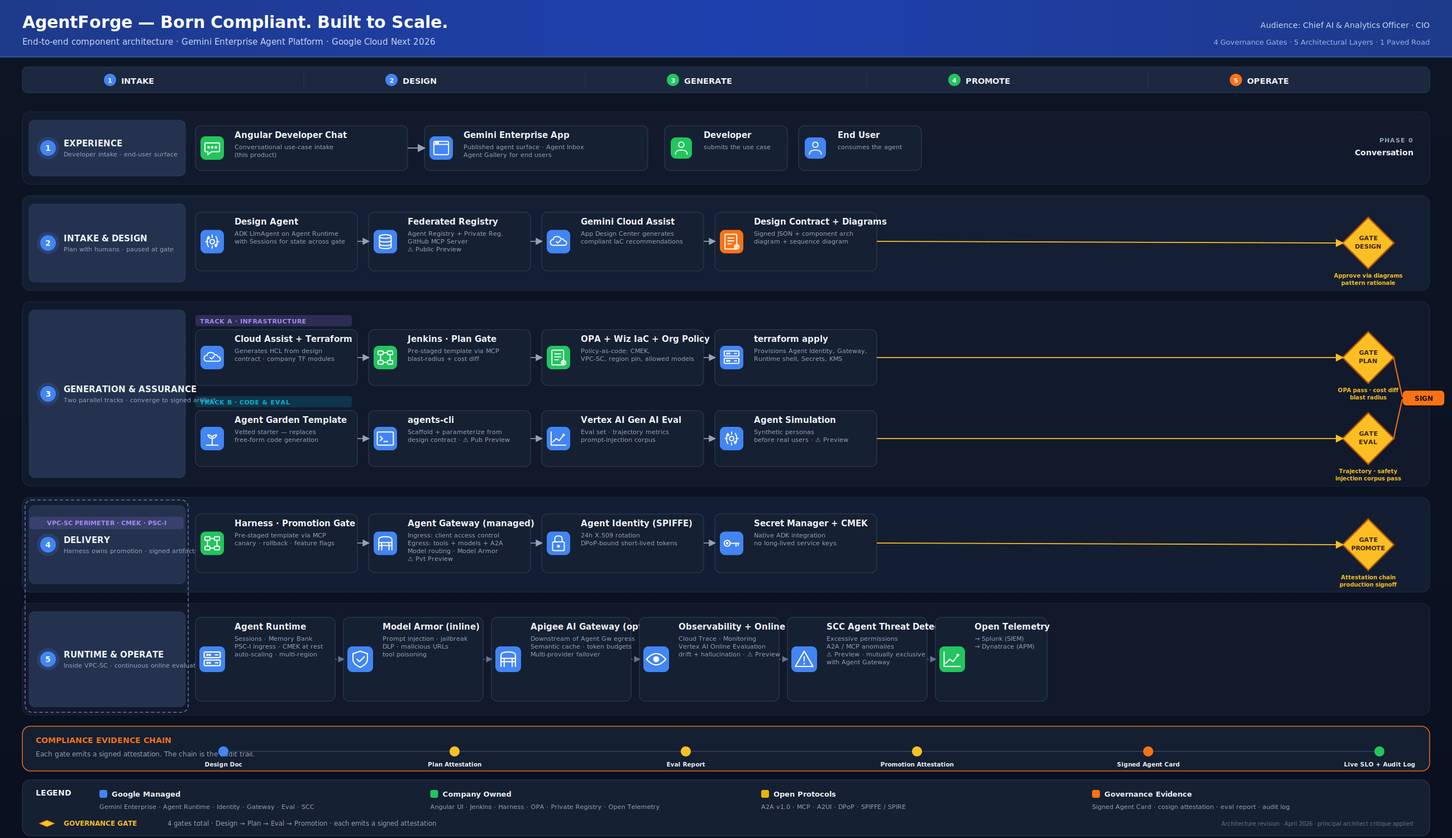
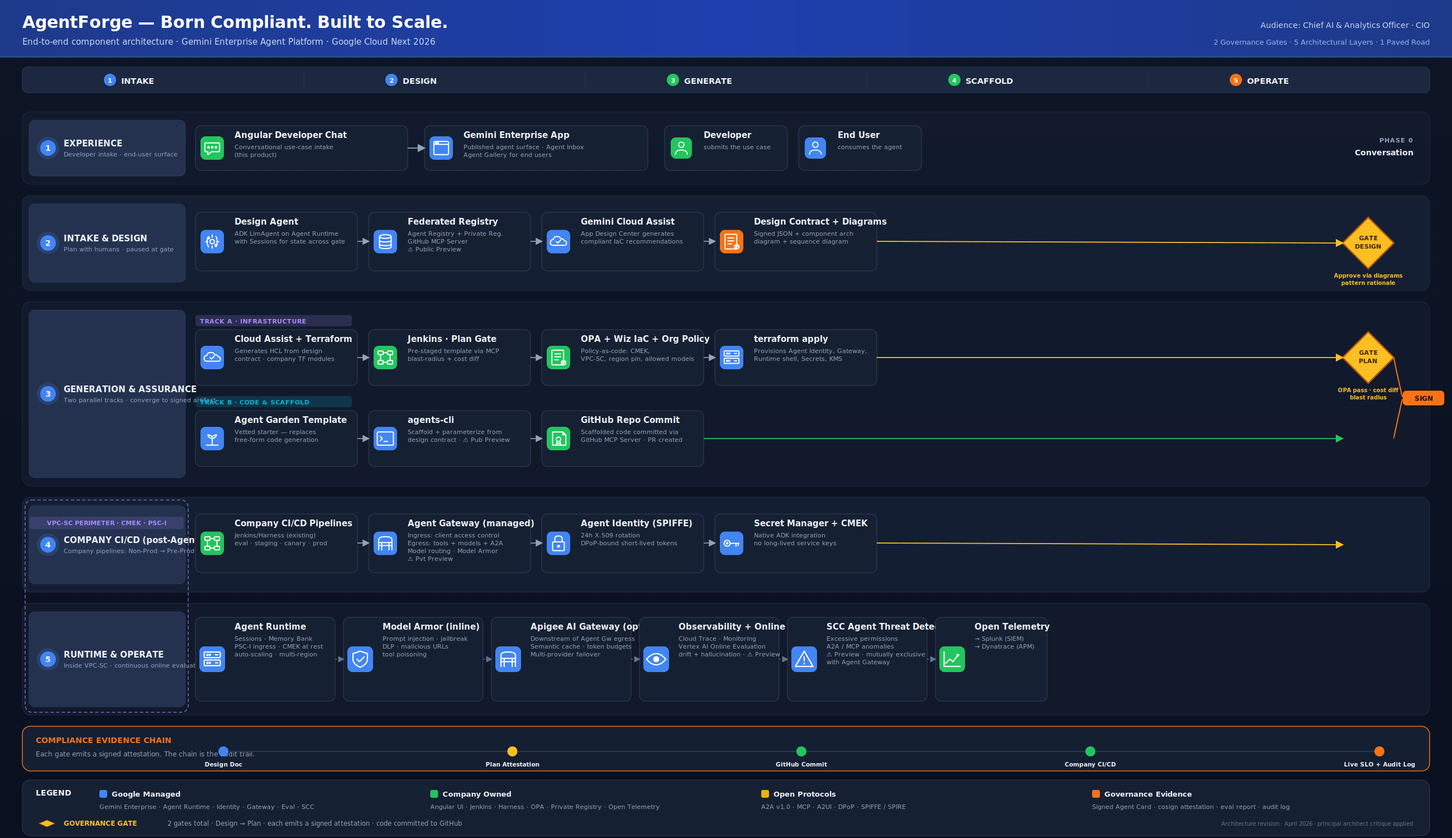
Refresh born-compliant platform architecture, tech stack, and sequence diagrams

diff --git a/born-compliant-platform-sequence-diagrams.md b/born-compliant-platform-sequence-diagrams.md
@@ -12,30 +12,29 @@ Every team in the enterprise that wants to build an AI agent today faces the sam
 
 ### The solution: AgentForge
 
-AgentForge is a **paved-road platform** that turns agent development from a bespoke construction project into a governed, repeatable, design-to-deploy workflow. A developer describes a use case in plain English through a chat interface. The platform's Design Agent selects the right ADK patterns, discovers reusable tools and MCP servers, generates the architecture diagrams, and presents a Design Contract for human approval. On approval, a deterministic pipeline scaffolds the agent code from a vetted template, provisions compliant infrastructure from signed Terraform modules, runs eval and security scans, and promotes the agent through four governance gates to production — where it runs with managed identity, inline Model Armor, continuous evaluation, and threat detection from day one.
+AgentForge is a **paved-road platform** that turns agent development from a bespoke construction project into a governed, repeatable, design-to-deploy workflow. A developer describes a use case in plain English through a chat interface. The platform's Design Agent selects the right ADK patterns, discovers reusable tools and MCP servers, generates the architecture diagrams, and presents a Design Contract for human approval. On approval, a deterministic pipeline scaffolds the agent code from a vetted template, provisions compliant infrastructure from signed Terraform modules, runs eval and security scans, and promotes the agent through two governance gates to production — where it runs with managed identity, inline Model Armor, continuous evaluation, and threat detection from day one.
 
 **The developer writes business logic. AgentForge writes everything else.**
 
-### The four governance gates — what makes "born compliant" real
+### The two governance gates — what makes "born compliant" real
 
-The phrase "born compliant" is a claim. The four-gate attestation chain is the **proof.** Every agent built through AgentForge passes through four mandatory governance checkpoints. Each gate produces a cryptographically signed attestation — a tamper-proof evidence artifact that proves the check occurred and what the result was. The attestations are chained: each one references the hash of the previous, so removing or altering any link in the chain is detectable and blocks the pipeline. This is the same principle as a certificate chain in TLS or a notarized chain of custody in legal proceedings — but applied to the agent lifecycle.
+The phrase "born compliant" is a claim. The two-gate attestation chain is the **proof.** Every agent built through AgentForge passes through two mandatory governance checkpoints. Each gate produces a cryptographically signed attestation — a tamper-proof evidence artifact that proves the check occurred and what the result was. The attestations are chained: each one references the hash of the previous, so removing or altering any link in the chain is detectable and blocks the pipeline. This is the same principle as a certificate chain in TLS or a notarized chain of custody in legal proceedings — but applied to the agent lifecycle.
 
 ```mermaid
 flowchart LR
     G1["🟧 DESIGN GATE<br/><br/>Human approves the<br/>architecture + patterns<br/>before any code is written"]
     G2["🟧 PLAN GATE<br/><br/>Policy-as-code validates<br/>infrastructure plan before<br/>any resource is provisioned"]
-    G3["🟧 EVAL GATE<br/><br/>Automated quality + safety<br/>thresholds are met before<br/>the agent is packaged"]
-    G4["🟧 PROMOTION GATE<br/><br/>Full attestation chain is<br/>verified before the agent<br/>reaches production"]
 
     G1 -->|"Design Attestation<br/>(signed contract)"| G2
-    G2 -->|"Plan Attestation<br/>(signed policy pass)"| G3
-    G3 -->|"Eval Attestation<br/>(signed quality report)"| G4
-    G4 -->|"Promotion Attestation<br/>(signed deploy auth)"| PROD["✅ PRODUCTION<br/><br/>Agent is live with<br/>continuous monitoring"]
+    G2 -->|"Plan Attestation<br/>(signed policy pass)"| SCAFFOLD["📦 SCAFFOLD + COMMIT<br/><br/>Code scaffolded from<br/>Design Contract, committed<br/>to company GitHub repo"]
+    SCAFFOLD -->|"Company CI/CD<br/>takes over"| CICD["🔄 COMPANY CI/CD<br/><br/>Non-Prod → Pre-Prod → Prod<br/>via existing Jenkins/Harness<br/>pipelines with company gates"]
 
     classDef gate fill:#78350f,stroke:#fbbf24,color:#fbbf24,stroke-width:2px;
-    classDef prod fill:#14532d,stroke:#22c55e,color:#22c55e,stroke-width:2px;
-    class G1,G2,G3,G4 gate;
-    class PROD prod;
+    classDef scaffold fill:#14532d,stroke:#22c55e,color:#22c55e,stroke-width:2px;
+    classDef cicd fill:#1e3a5f,stroke:#60a5fa,color:#60a5fa,stroke-width:2px;
+    class G1,G2 gate;
+    class SCAFFOLD scaffold;
+    class CICD cicd;
 ```
 
 **What each gate does and why it exists:**
@@ -44,17 +43,21 @@ flowchart LR
 |---|---|---|---|---|---|
 | **Design Gate** | After the Design Agent produces the architecture, before any code or infrastructure is generated | Is the pattern selection sound? Are the right tools and MCP servers selected? Does the architecture match the use case? Is the threat model addressed? | Developer (human) | Signed Design Contract + component diagram + sequence diagram | Teams ship agents with untested architectures; wrong pattern selection discovered in production |
 | **Plan Gate** | After Terraform generates the infrastructure plan, before any cloud resources are provisioned | Does the plan comply with OPA policies? Are CMEK, VPC-SC, region pinning enforced? Is the cost diff acceptable? Is the blast radius bounded? | Platform engineer (human) | Signed Plan Attestation referencing the Design Attestation hash | Non-compliant infrastructure reaches production; CMEK missing, VPC-SC perimeter open, cost overruns |
-| **Eval Gate** | After the agent code is scaffolded and tests are run, before the agent is packaged | Do quality metrics (trajectory accuracy, autorater scores) meet thresholds? Does the prompt-injection corpus pass? Do synthetic personas produce safe responses? | Automated (threshold-based) | Signed Eval Attestation referencing the Plan Attestation hash | Agents with hallucination problems, prompt-injection vulnerabilities, or quality regressions reach production |
-| **Promotion Gate** | After staging deploy and smoke tests pass, before production traffic is routed | Is the complete attestation chain (Design → Plan → Eval) intact and verified? Did staging smoke tests pass? Has the change record been opened? | Production approver (human) | Signed Promotion Attestation completing the chain | Agents without design review, untested infrastructure, or failing evals reach production because someone manually pushed a deploy |
 
-**Why the chain matters — not just the individual gates:**
+**What happens after the Plan Gate:**
 
-Individual gates are not new — every CI/CD pipeline has approval steps. What's new is the **chain.** Each attestation includes the cryptographic hash of the previous attestation, creating a tamper-proof sequence. If an attacker or a well-meaning engineer bypasses the Eval Gate and tries to promote directly, the Promotion Gate will detect that the Eval Attestation is missing from the chain and **block the deploy automatically.** No human has to catch the skip — the math catches it.
+After the Plan Gate passes, AgentForge provisions the infrastructure and scaffolds the agent code from the signed Design Contract. The scaffolded code — including the agent class hierarchy, MCP connections, A2A clients, skill directories, FunctionTool stubs, and callback placeholders — is committed to the **company's GitHub repository** via the GitHub MCP Server, organized per company best practices.
+
+**From this point, AgentForge's job is done.** The company's existing CI/CD pipelines — which already have their own quality gates, environment promotion (Non-Prod → Pre-Prod → Prod), eval frameworks, and approval workflows — take over. AgentForge does not impose its own eval or promotion gates because the company already has them.
+
+**Why the chain still matters — even with only two gates:**
+
+The two-gate chain is where the novel compliance value lives. The Design Attestation proves that a human reviewed the architecture before any code was generated. The Plan Attestation proves that the infrastructure was policy-checked before any resources were provisioned. Together, they guarantee that every scaffolded agent was *designed with evidence* and *provisioned with compliance* — before a single line of business logic is written. The company's CI/CD adds the remaining quality assurance (testing, eval, staging, canary, production promotion) using their established process.
 
 This means:
-- **For the CISO:** Every agent in production can be traced back to a signed design review, a signed infrastructure policy pass, a signed quality evaluation, and a signed production authorization. The audit trail is not a spreadsheet someone filled in — it's a cryptographic chain that cannot be forged.
-- **For the CAO/CIO:** The compliance posture of the 50th agent deployed through AgentForge is identical to the 1st — because the chain is enforced by the platform, not by human discipline. You don't need to worry about standards decaying as the team scales.
-- **For the auditor:** The chain answers the question *"prove this agent was reviewed, tested, and authorized"* with a single API call to Binary Authorization, not a week of evidence gathering across Confluence, JIRA, and email threads.
+- **For the CISO:** Every agent codebase in the company's GitHub repos can be traced back to a signed design review and a signed infrastructure policy pass. The compliance trail starts before code exists.
+- **For the CAO/CIO:** AgentForge handles the part that's hardest to standardize (architecture + infrastructure). The company's CI/CD handles the part they've already standardized (build + test + deploy).
+- **For the auditor:** The attestation chain answers *"prove this agent was designed and provisioned correctly"* — the company's CI/CD pipeline answers *"prove it was tested and deployed correctly."* Two complementary evidence chains.
 
 ### The ROI
 
@@ -69,7 +72,7 @@ This means:
 | **Observability setup** | Custom per agent | Auto-wired — Open Telemetry, Cloud Trace, Splunk, Dynatrace | Zero instrumentation code per agent |
 | **Rollback** | Redeploy previous version | Agent Gateway weight shift (seconds) | Sub-minute rollback |
 | **Platform team size** | N/A (each team self-serves poorly) | ~5 engineers maintain the platform for the entire enterprise | Centralized investment, distributed benefit |
-| **Cost of compliance failure** | Unbounded (each agent is its own risk) | Bounded — no agent escapes the four governance gates | Portfolio-level compliance, not agent-level |
+| **Cost of compliance failure** | Unbounded (each agent is its own risk) | Bounded — no agent escapes the two governance gates | Portfolio-level compliance, not agent-level |
 
 **The one-line pitch for the board:** AgentForge lets the enterprise ship 10x more agents in half the time with a compliance posture that improves with every deployment, because compliance is structural — not a checkbox.
 
@@ -94,7 +97,7 @@ Here is the gap:
 | Architecture diagrams for human review | ❌ Not provided | ✅ Generated from the pattern composition, signed as evidence |
 | Compliance-hardened infrastructure | ❌ Templates use Google's default Terraform | ✅ Company TF modules with CMEK, VPC-SC, billing labels, region pinning baked in |
 | CI/CD pipelines aligned to company standards | ❌ Cloud Build configs (Google's standard) | ✅ Pre-staged Jenkins + Harness templates discovered via MCP |
-| Four-gate attestation chain | ❌ Not provided | ✅ Design → Plan → Eval → Promotion, cryptographically chained |
+| Four-gate attestation chain | ❌ Not provided | ✅ Design → Plan, cryptographically chained |
 | Skill discovery by developer intent | ❌ Developer manually selects skills | ✅ Semantic search matches use-case intent to skills, assigns them to agent nodes |
 | Provenance verification at build time | ❌ Not provided | ✅ Every skill, module, and template verified against signed Design Contract |
 
@@ -234,7 +237,7 @@ Harness owns environment promotion. Nothing reaches production unless the full a
 
 | Component | Category | Description |
 |---|---|---|
-| Harness *(via MCP Server)* | Company | Continuous delivery platform running a **pre-staged company pipeline template** (`agent-deploy-canary-v4`). The template contains the Promotion Gate logic, canary watch, rollback triggers, and environment progression. The Design Agent discovers the template and configures it with parameters from the Design Contract via the Harness MCP Server. No Harness YAML is generated. |
+| Harness *(via MCP Server)* | Company | Continuous delivery platform. In AgentForge, the Harness MCP Server is used at **design time** (Layer 2) to discover pipeline templates and read their parameter schemas. The actual deployment pipeline execution (eval, staging, canary, production promotion) happens **outside AgentForge scope** via the company's existing Harness pipelines in Layer 4. |
 | Harness Feature Flags | Company | Toggle prompt packs, tool allowlists, and Model Armor templates in production without redeploying the agent. |
 | Agent Gateway *(Private Preview)* | GCP | Google-managed gateway operating in two modes. **Ingress (Client-to-Agent):** controls which clients can access agents. **Egress (Agent-to-Anywhere):** secures and governs ALL outbound agent traffic — to tools/MCP servers, to models (Gemini, Model Garden, third-party), to other agents (A2A), and to external APIs. Enforces IAM policies, Model Armor, and identity-aware routing at the egress point. **Note:** SCC Agent Engine Threat Detection is not available when Agent Gateway is enabled — they are mutually exclusive in the current preview. |
 | Agent Identity (SPIFFE) *(GA)* | GCP | Issues SPIFFE-based X.509 certificates with 24-hour rotation and DPoP-bound tokens. Each environment (staging, prod) gets a separate identity — no identity promotion. |
@@ -280,7 +283,7 @@ The agent runs inside a VPC-SC perimeter with continuous evaluation, threat dete
 | Access Context Manager *(GA)* | GCP | Context-aware access policies. Defines the VPC-SC perimeter rules and the conditions under which agents can access sensitive resources. |
 | Cloud Audit Logs *(GA)* | GCP | Admin activity, data access, and system event logs. The only component that appears in every layer — it is the audit backbone. |
 | Cloud Billing + Labels *(GA)* | GCP | Per-agent cost attribution via billing labels. Each agent deployed by the platform inherits labels from its Design Contract (agent class, team, cost center). |
-| Compliance Evidence | Company | The signed attestation chain — Design Doc → Plan Attestation → Eval Report → Promotion Attestation → Signed Agent Card → Live SLO + Audit Log. This chain is what "born compliant" means to an auditor. |
+| Compliance Evidence | Company | The signed attestation chain — Design Doc → Plan Attestation → GitHub Commit → Company CI/CD → Live SLO + Audit Log. AgentForge produces the first three links; the company's CI/CD produces the rest. This chain is what "born compliant" means to an auditor. |
 | SPIFFE / SPIRE *(GA)* | Protocol | The workload identity standard underpinning Agent Identity. SPIFFE IDs are the only principal type for agent IAM grants — no service account keys. |
 
 ---
@@ -690,7 +693,7 @@ sequenceDiagram
 | **LLM involved?** | Yes — reasoning, pattern selection, tool discovery, diagram generation | No — deterministic parameterization from signed contract |
 | **Inputs** | Developer's use-case prompt + pattern catalog + registries + GitHub MCP | Signed Design Contract JSON (all choices already made) |
 | **Outputs** | Signed Design Contract + component diagram + sequence diagram | Scaffolded ADK agent package + eval results |
-| **Who approves the output?** | Developer at Design Gate (reviews architecture via diagrams) | Automated eval thresholds at Eval Gate (no human reviews code) |
+| **Who approves the output?** | Developer at Design Gate (reviews architecture via diagrams) | No approval needed — scaffold is committed to GitHub; company CI/CD handles quality gates |
 | **Why this boundary exists** | If Design Agent invoked agents-cli directly, the human approval gate would come *after* code generation — forcing the developer to review generated code instead of reviewing a design. That's a worse developer experience and a weaker compliance posture. |
 
 **Design Contract JSON example** (the artifact handed from Layer 2 to Layer 3):
@@ -917,7 +920,6 @@ sequenceDiagram
 
     box rgba(34,197,94,0.15) Company-Owned
     participant JNK as Jenkins<br/>(pre-staged template)
-    participant ESC as Eval Set + Corpus
     end
 
     box rgba(66,133,244,0.15) GCP Managed
@@ -927,9 +929,6 @@ sequenceDiagram
     participant CLI as agents-cli
     participant ADK as ADK Framework
     participant GAR as Agent Garden Templates
-    participant EVAL as Vertex AI Gen AI Eval
-    participant SIM as Agent Simulation
-    participant ARG as Artifact Registry
     participant BAUTH as Binary Authorization
     participant CAL as Cloud Audit Logs
     end
@@ -943,6 +942,7 @@ sequenceDiagram
     participant SIG as Cosign / Sigstore
     participant GSR as Google Skills Repo<br/>(github.com/google/skills)
     participant CSR as Company Skills Repo<br/>(github.com/company/skills)
+    participant GH as GitHub MCP Server<br/>(company repo)
     end
 
     Note over JNK: ◀ from Layer 2: contract_uri arrives via webhook
@@ -993,15 +993,11 @@ sequenceDiagram
         CLI->>CLI: wire ADK SkillToolset with<br/>load_skill_resource tool for each<br/>bundled skill (enables L3 on-demand<br/>loading at runtime)
         CLI->>ADK: build agent package<br/>(all params from signed contract —<br/>zero LLM choices)
         ADK-->>CLI: built agent package
-        CLI->>EVAL: agents-cli eval run<br/>--eval-set {eval_set_id}<br/>--corpus {injection_corpus_id}
-        ESC-->>EVAL: golden + injection corpus
-        EVAL-->>CLI: trajectory metrics + autorater scores
-        CLI->>SIM: synthetic persona test
-        SIM-->>CLI: simulation report
-        Note over CLI: 🟧 EVAL GATE — thresholds checked
-        CLI->>SIG: sign Eval Report
-        SIG-->>CLI: eval_attestation
-        CLI->>CAL: EVAL_GATE_PASSED
+
+        Note over CLI,GH: COMMIT TO COMPANY GITHUB REPO
+
+        CLI->>GH: commit scaffolded code to<br/>company GitHub repo via<br/>GitHub MCP Server<br/>(organized per company standards:<br/>repo structure, branch naming,<br/>PR with Design Contract link)
+        GH-->>CLI: commit SHA + PR URL
     end
 
     Note over JNK: CONVERGENCE — both tracks complete
@@ -1017,24 +1013,22 @@ sequenceDiagram
     JNK->>SIG: sign final bundle attestation
     SIG-->>JNK: final_attestation
 
-    JNK->>ARG: push signed bundle
-    ARG-->>JNK: bundle_uri
-    JNK->>BAUTH: register attestation chain<br/>(Design + Plan + Eval + Final)
+    JNK->>BAUTH: register attestation chain<br/>(Design + Plan)
     BAUTH-->>JNK: chain locked
 
-    JNK->>CAL: SIGN_PASSED — full chain recorded
-    JNK->>JNK: trigger Harness webhook<br/>{bundle_uri, infra_contract,<br/>attestation_chain_id}
+    JNK->>CAL: SCAFFOLD_COMPLETE —<br/>code committed to GitHub,<br/>infra provisioned,<br/>attestation chain recorded
 
-    Note right of JNK: ▶ Handoff to Layer 4:<br/>bundle + infra contract + chain
+    Note right of JNK: ▶ Handoff to Company CI/CD:<br/>scaffolded code in GitHub repo<br/>+ provisioned infra + attestation chain<br/><br/>Company's existing Jenkins/Harness<br/>pipelines handle eval, staging,<br/>canary, and production promotion<br/>through Non-Prod → Pre-Prod → Prod
 ```
 
 **Engineering notes:**
 
-- The two tracks share the Design Contract but produce independent artifacts. Convergence requires both to have signed attestations. If one fails, the other is discarded — there is no partial promotion.
-- Track B builds the agent code against **stub references** to the infra contract; at convergence, stubs are replaced with the real IDs Track A emitted. The bundle is *re-signed* after substitution.
+- The two tracks share the Design Contract but produce independent artifacts. If one fails, the other is discarded.
+- Track B builds the agent code against **stub references** to the infra contract; at convergence, stubs are replaced with the real IDs Track A emitted.
 - **`agents-cli` is a deterministic consumer of the Design Contract — see the field-by-field consumption table in the Layer 2 engineering notes.** It reads `garden_template_id` to fetch the scaffold, `adk_agent_tree` to generate the class hierarchy, `tool_bindings[]` to wire MCP servers and function tools per agent node, `mcp_server_configs[]` to generate connection setup, `skill_references[]` to pin versions with signature hashes, and `infra_modules[]` to generate the Terraform references Track A consumes. If any field is missing or malformed, agents-cli fails with a schema validation error — it never guesses.
-- **There is no LLM in Track B.** The LLM did its work in Layer 2. From Layer 3 onward, the pipeline is deterministic. This is the fundamental architectural boundary: design is LLM-assisted (Layer 2), generation is LLM-free (Layer 3).
-- Binary Authorization stores the *chain*, not individual attestations. Layer 4 verifies the entire chain in one call.
+- **There is no LLM in Track B.** The LLM did its work in Layer 2. From Layer 3 onward, the pipeline is deterministic.
+- **After convergence, the scaffolded code is committed to the company's GitHub repo via the GitHub MCP Server.** The commit includes the agent package, skill directories, Terraform references, callback stubs, and a reference to the signed Design Contract. The company's existing CI/CD pipelines — which already have their own eval frameworks, quality gates, staging environments, canary deployment, and production promotion workflows — take over from this point. AgentForge does not impose eval or promotion gates because the company already has them.
+- Binary Authorization stores the attestation chain (Design + Plan) for audit purposes. The company's CI/CD can verify this chain as a prerequisite before promoting the agent code.
 - Plan Gate human approval is the *same* gate the existing Jenkins pipeline uses — `terraform plan` review by a platform engineer with access to cost diff and blast radius. We did not invent a new approval flow.
 
 ### What the platform scaffolds vs what engineers must implement
@@ -1083,105 +1077,28 @@ The scaffold gives you a *runnable but incomplete* agent. You can deploy it to s
 
 ---
 
-## Layer 4 — DELIVERY
+## Layer 4 — COMPANY CI/CD (outside AgentForge scope)
 
-**Outcome:** A signed bundle becomes a running agent in production with canary routing, bound to a fresh production SPIFFE identity and CMEK-encrypted secrets.
+**AgentForge's scope ends at Layer 3.** After the scaffolded code is committed to the company's GitHub repo and the infrastructure is provisioned, the company's existing CI/CD pipelines take over for eval, staging, canary deployment, and production promotion.
 
-**Enters from Layer 3:** `bundle_uri` + `infra_contract` + attestation chain.
-**Exits to Layer 5:** Live agent on Agent Runtime (prod) with routing in Agent Gateway, identity issued by Agent Identity, and secrets bound via Secret Manager.
+**What AgentForge hands off:**
+- Scaffolded agent code in the company's GitHub repo (committed via GitHub MCP Server)
+- Provisioned infrastructure (Agent Runtime, Agent Identity, Agent Gateway route, PSC-I, KMS, Model Armor)
+- Signed attestation chain (Design Attestation → Plan Attestation) in Binary Authorization
+- Design Contract JSON (for reference and audit trail)
+- Component + sequence diagrams (for documentation)
 
-```mermaid
-sequenceDiagram
-    autonumber
-    actor Approver as 👤 Production Approver
+**What the company's CI/CD handles (using their existing gates):**
+- Code review and merge (company PR workflow)
+- Build and package the agent (using the scaffolded code as the starting point)
+- Run eval sets and prompt-injection corpus tests
+- Deploy to Non-Prod → Pre-Prod → Prod (company's existing environment promotion)
+- Canary routing and rollback (via Agent Gateway or Apigee traffic-split)
+- Agent registration in Agent Registry with skill metadata (post-deploy hook)
+- Production monitoring and SLO enforcement
 
-    box rgba(34,197,94,0.15) Company-Owned
-    participant HRN as Harness<br/>(pre-staged template)
-    participant HFF as Harness Feature Flags
-    participant SNW as ServiceNow CMDB
-    end
-
-    box rgba(66,133,244,0.15) GCP Managed
-    participant ARG as Artifact Registry
-    participant BAUTH as Binary Authorization
-    participant AID as Agent Identity (SPIFFE)
-    participant SM as Secret Manager
-    participant KMS as Cloud KMS (CMEK)
-    participant ARS as Agent Runtime<br/>(staging)
-    participant ARP as Agent Runtime<br/>(prod)
-    participant AGW as Agent Gateway
-    participant REG as Agent Registry
-    participant CAL as Cloud Audit Logs
-    end
-
-    Note over HRN: ◀ from Layer 3: bundle_uri + infra_contract via webhook
-
-    HRN->>ARG: pull signed bundle
-    ARG-->>HRN: bundle artifact
-
-    HRN->>BAUTH: verify attestation chain<br/>(Design + Plan + Eval + Final)
-    BAUTH-->>HRN: chain valid
-
-    alt chain invalid
-        BAUTH-->>HRN: FAIL — missing or revoked
-        HRN->>CAL: PROMOTION_BLOCKED
-        Note over HRN: ⛔ deploy aborted — no GCP calls made
-    end
-
-    HRN->>SNW: open change record (RFC)
-    SNW-->>HRN: change_id
-
-    Note over HRN,ARS: --- STAGING DEPLOY ---
-
-    HRN->>AID: assign staging SPIFFE ID
-    AID-->>HRN: spiffe://agents/staging/<id>
-    HRN->>SM: bind tool secrets to staging SPIFFE ID
-    HRN->>KMS: bind CMEK key to runtime config
-    HRN->>ARS: deploy bundle with identity + key refs
-    ARS-->>HRN: staging endpoint
-
-    HRN->>AGW: register staging route (100% staging traffic)
-    HRN->>ARS: smoke test suite
-    ARS-->>HRN: smoke PASS
-
-    Note over HRN,Approver: 🟧 PROMOTION GATE<br/>attestation chain visible to approver
-    Approver->>HRN: APPROVE prod
-
-    Note over HRN,ARP: --- PROD DEPLOY (canary) ---
-
-    HRN->>AID: mint fresh prod SPIFFE ID<br/>(NOT a promotion of staging ID)
-    AID-->>HRN: spiffe://agents/prod/<id>
-    HRN->>SM: bind tool secrets to prod SPIFFE ID
-    HRN->>ARP: deploy bundle to prod
-    HRN->>AGW: register prod route at 10% canary
-
-    loop canary watch (15-30 min)
-        HRN->>ARP: monitor SLOs<br/>(latency, error rate, eval score)
-    end
-
-    alt canary healthy
-        HRN->>AGW: shift to 100% prod
-        HRN->>REG: register agent in Agent Registry<br/>with skill metadata from L1 frontmatter<br/>(so other agents can discover this<br/>agent by its capabilities)
-        HRN->>HFF: enable production feature flags
-        HRN->>SNW: close change record
-        HRN->>CAL: PROMOTION_GATE_PASSED — agent live
-    else canary unhealthy
-        HRN->>AGW: shift back to previous version
-        HRN->>SNW: change record FAILED
-        HRN->>CAL: PROMOTION_ROLLBACK
-    end
-
-    Note right of HRN: ▶ Handoff to Layer 5:<br/>runtime_ref + prod SPIFFE ID<br/>+ gateway routing config
-```
-
-**Engineering notes:**
-
-- Harness *consumes* the attestation chain via Binary Auth before any GCP API is called. If any link is missing or revoked, the deploy aborts at step 5; nothing is provisioned, nothing is logged as a deploy attempt at Agent Runtime.
-- Staging and prod use **separate** SPIFFE IDs. There is no "promote the same identity" — Harness mints a fresh prod identity at promotion time. This is a deliberate isolation property.
-- Canary routing is via **Agent Gateway weighted routes**, not a load balancer. Agent Gateway is the only place where A2A-aware and DPoP-aware canary routing exists in the stack.
-- Rollback is "shift Agent Gateway weight back to previous version" — not a redeploy. The previous version stays in Artifact Registry until explicitly retired.
-- ServiceNow integration is for change-management audit trail — the change record links the JIRA ID (from Layer 1) to the deploy event.
-- **Agent + skill registration in Agent Registry happens after successful canary, not at deploy time.** The agent is registered with its skill metadata (extracted from L1 YAML frontmatter of each bundled skill) only when it reaches 100% production traffic. This means other agents cannot discover this agent until it's proven healthy in production. The skill metadata enables capability-based discovery — other agents querying Agent Registry for "fraud detection" or "BigQuery analytics" will find this agent by its skills, not just by name. On rollback, the previous agent version's registry entry is restored.
+**Why AgentForge doesn't own this layer:**
+The company already has Jenkins/Harness pipelines with approval gates, environment promotion, canary analysis, and rollback workflows that are audited and SOC 2-compliant. Duplicating these gates inside AgentForge would create two competing governance systems — one for agents and one for everything else. Instead, AgentForge provides the *design and scaffold* that the company's CI/CD consumes, just like any other codebase.
 
 ---
 
@@ -1341,8 +1258,8 @@ If you read the five diagrams in order, the artifact passed between them is alwa
 
 1. **Layer 1** produces a `session_id` — an authentication artifact bound to the developer and a JIRA ticket.
 2. **Layer 2** produces a **cosign-signed Design Contract** — what to build, declared as typed JSON — accompanied by a generated component architecture diagram and sequence diagram that the developer approves at the Design Gate.
-3. **Layer 3** produces a **signed bundle plus an attestation chain** — the build evidence, registered in Binary Authorization.
-4. **Layer 4** produces a **runtime reference plus a fresh prod SPIFFE identity** — the deploy evidence, recorded in ServiceNow and Cloud Audit Logs.
+3. **Layer 3** provisions infrastructure (Track A, Plan Gate) and scaffolds agent code (Track B). The scaffolded code is **committed to the company's GitHub repo** via the GitHub MCP Server. The attestation chain (Design + Plan) is registered in Binary Authorization.
+4. **Layer 4** is handled by the **company's existing CI/CD** — eval, staging, canary, and production promotion through Non-Prod → Pre-Prod → Prod. AgentForge's scope ends at Layer 3.
 5. **Layer 5** produces a **continuous evidence stream** — telemetry, eval, threat, and cost — that feeds back into Layer 2 (regenerate) or Layer 4 (rollback).
 
 This is the literal definition of "born compliant": every interaction in every layer either consumes an attestation, produces an attestation, or appends to the audit chain. **There is no path through the system that escapes signing.**
@@ -1633,13 +1550,11 @@ This table traces the complete build from developer prompt to production deploym
 | 12 | L3-B | agents-cli | Generates FunctionTool stubs (severity_classifier, coverage_calculator, notification_sender) — **signatures generated, bodies empty** | `tool_bindings[]` (type=function_tool) | `app/tools/*.py` (3 files, bodies = `raise NotImplementedError`) |
 | 13 | L3-B | agents-cli → `gh skill install` | Installs 4 skills at pinned versions from GitHub, verifies provenance SHA against Design Contract — **build fails on mismatch** | `skill_references[]` | `skills/bigquery/`, `skills/fraud-detection/`, etc. (4 directories with SKILL.md + references/) |
 | 14 | L3-B | agents-cli | Wires ADK `SkillToolset` with `load_skill_resource` for progressive L1/L2/L3 loading | Bundled skill directories | `SkillToolset` in root agent's tools list |
-| 15 | L3-B | agents-cli | Builds agent package (code + skills + tool declarations + callbacks) | All generated files | `dist/fnol-agent-1.0.0.tar.gz` |
-| 16 | L3-B | agents-cli → Vertex AI Gen AI Eval | Runs eval set + prompt-injection corpus, checks thresholds | `eval_set_id` + `injection_corpus_id` | Eval metrics + **Eval Attestation** |
-| 17 | L3-B | Agent Simulation | Generates synthetic FNOL personas, runs multi-turn conversations against agent | Agent package | Simulation report (persona diversity) |
-| 18 | L3 | Convergence | Infra IDs from Track A injected into Track B config; bundle re-signed; both attestations registered in Binary Authorization | Plan Attestation + Eval Attestation | Signed bundle in Artifact Registry |
-| 19 | L4 | Harness (pre-staged template) | Pull bundle → verify attestation chain → deploy staging → smoke test → **PROMOTION GATE** → canary (10% × 30min) → 100% prod | `pipeline_configs.harness` + attestation chain | Production agent + **Promotion Attestation** |
-| 20 | L4 | Agent Runtime | Auto-registers agent in Agent Registry with skill metadata from L1 frontmatter | L1 frontmatter from bundled skills | Agent discoverable by other agents via skills |
-| 21 | L5 | Agent Runtime | Agent receives policyholder request → activates skills (L2) → reasons → loads L3 references on-demand → calls tools via Agent Gateway egress | Live request | Claim filed, enriched, summarized, services booked |
+| 15 | L3-B | agents-cli → ADK SDK | Builds agent package (code + skills + tool declarations + callbacks) | All generated files | `dist/fnol-agent-1.0.0.tar.gz` |
+| 16 | L3-B | agents-cli → GitHub MCP Server | Commits scaffolded code to company GitHub repo — organized per company standards (repo structure, branch naming, PR with Design Contract link) | Built agent package | Commit SHA + PR URL |
+| 17 | L3 | Convergence | Infra IDs from Track A linked to Track B code; attestation chain (Design + Plan) registered in Binary Authorization | Plan Attestation + scaffold commit | Signed attestation chain in Binary Auth |
+| 18 | L4+ | Company CI/CD | **AgentForge's job is done.** Company's existing Jenkins/Harness pipelines take over: eval, staging, canary, production promotion through Non-Prod → Pre-Prod → Prod | Scaffolded code in GitHub + provisioned infra + attestation chain | Production agent |
+| 19 | L5 | Agent Runtime | Agent receives policyholder request → activates skills (L2) → reasons → loads L3 references on-demand → calls tools via Agent Gateway egress | Live request | Claim filed, enriched, summarized, services booked |
 
 **What the engineer writes after receiving this scaffold:** system prompts (5 agents), FunctionTool bodies (3 tools), `before_tool_callback` validation, eval golden dataset (200+ conversations), domain injection corpus, Memory Bank schema, human escalation thresholds, state regulation guardrails, A2A Agent Card content.
 
@@ -1653,7 +1568,7 @@ For this use case, here is the concrete split:
 - A2A client connections to Body Shop Network, Rental Car, and Police Report agents — with signed Agent Card verification
 - Skill bindings for Policy Verification, Fraud Detection, and SLA Tracker — pinned versions with signature hashes
 - Agent Identity (SPIFFE), Agent Gateway route, Model Armor template binding, CMEK, VPC-SC membership, Secret Manager entries
-- Jenkinsfile (Plan Gate) + Harness YAML (Promotion Gate) from company shared-library templates
+- Jenkinsfile (Plan Gate) from company shared-library template + Harness pipeline config parameters for company CI/CD to consume
 - Open Telemetry instrumentation, Cloud Trace spans, structured logging
 - Eval harness pointing to the FNOL eval set and injection corpus
 - Component diagram and sequence diagram (the ones above)
@@ -1792,7 +1707,7 @@ AgentForge comprises **71 distinct capabilities** across GCP managed services, c
 | **Capabilities unchanged (already GA/company/OSS)** | **61** (86% of total) |
 | **Total engineering effort for GA-only** | **14–20 weeks** of platform team work |
 | **Largest single effort** | Agent Gateway → Apigee (3–4 weeks + 1 week CAA) |
-| **Attestation chain impact** | **Zero** — all four gates fire at the same points |
+| **Attestation chain impact** | **Zero** — all two gates fire at the same points |
 | **Design Contract schema impact** | **Zero** — same fields, same JSON structure |
 | **Scaffold vs engineer split impact** | **Zero** — same ~70/30 split |
 | **Skill lifecycle impact** | **Zero** — same semantic discovery, same `gh skill install`, same progressive loading |
@@ -1860,13 +1775,13 @@ These are known techniques applied to a new domain and would be rejected as obvi
 |---|---|---|---|
 | High | Medium-high | Low (search algorithm) | **Strong** |
 
-### Claim 3 — Multi-Gate Attestation Chain for Agent Lifecycle Compliance
+### Claim 3 — Two-Gate Attestation Chain for Agent Design and Infrastructure Compliance
 
-**Problem solved:** Existing CI/CD approval gates produce pass/fail flags, not durable cryptographically verifiable evidence. An auditor cannot prove, from the deployed artifact alone, that all reviews occurred and were not tampered with.
+**Problem solved:** Existing CI/CD approval gates produce pass/fail flags, not durable cryptographically verifiable evidence. An auditor cannot prove, from the codebase alone, that design review and infrastructure policy evaluation occurred and were not tampered with.
 
-**Novel method:** A four-gate attestation chain where each gate produces a cryptographically signed attestation referencing the hash of the previous attestation, creating a tamper-proof sequence registered in a binary authorization system. Deployment is conditional on verification of the complete chain.
+**Novel method:** A two-gate attestation chain where the Design Gate produces a signed design attestation (proving the architecture was human-reviewed before code was generated) and the Plan Gate produces a signed plan attestation (proving the infrastructure was policy-checked before resources were provisioned). The plan attestation references the hash of the design attestation, creating a tamper-proof sequence. The scaffolded code is committed to the company's GitHub repo only after both attestations are valid. The company's existing CI/CD consumes this chain as a prerequisite before promoting the agent code through environments.
 
-**Draft claim:** A system for compliance-verified deployment of an AI agent, comprising: (a) a design gate generating a signed design attestation; (b) a plan gate generating a signed plan attestation referencing the design attestation hash; (c) an evaluation gate generating a signed evaluation attestation referencing the plan attestation hash; (d) a promotion gate verifying the complete chain before deployment; and (e) a deployment module that deploys only if the chain is valid.
+**Draft claim:** A system for compliance-verified scaffolding of an AI agent, comprising: (a) a design gate generating a signed design attestation; (b) a plan gate generating a signed plan attestation referencing the design attestation hash; (c) a code scaffolding step that commits generated code to a repository only if both attestations are valid; and (d) registration of the attestation chain in a binary authorization system for downstream CI/CD verification.
 
 | Novelty | Non-obviousness | Alice risk | **Strength** |
 |---|---|---|---|
